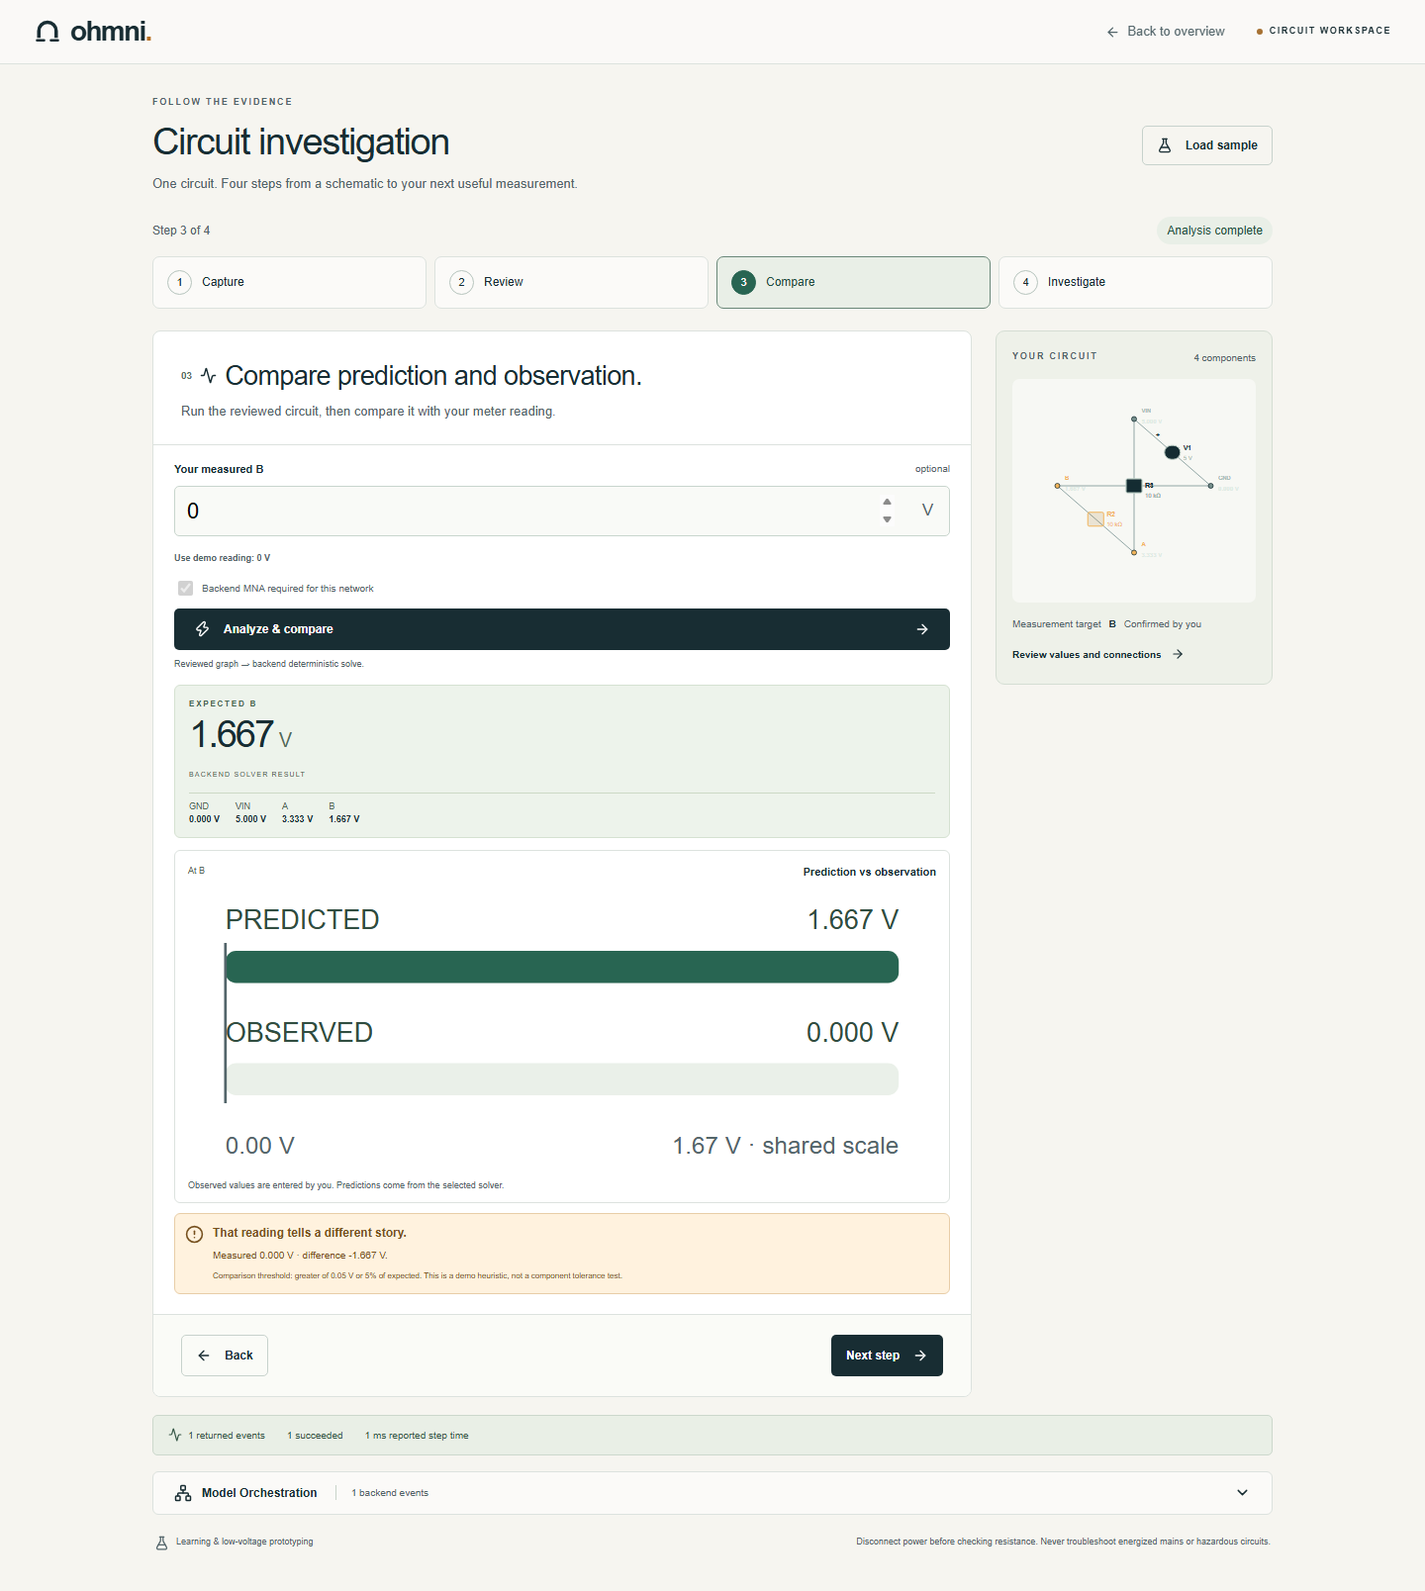
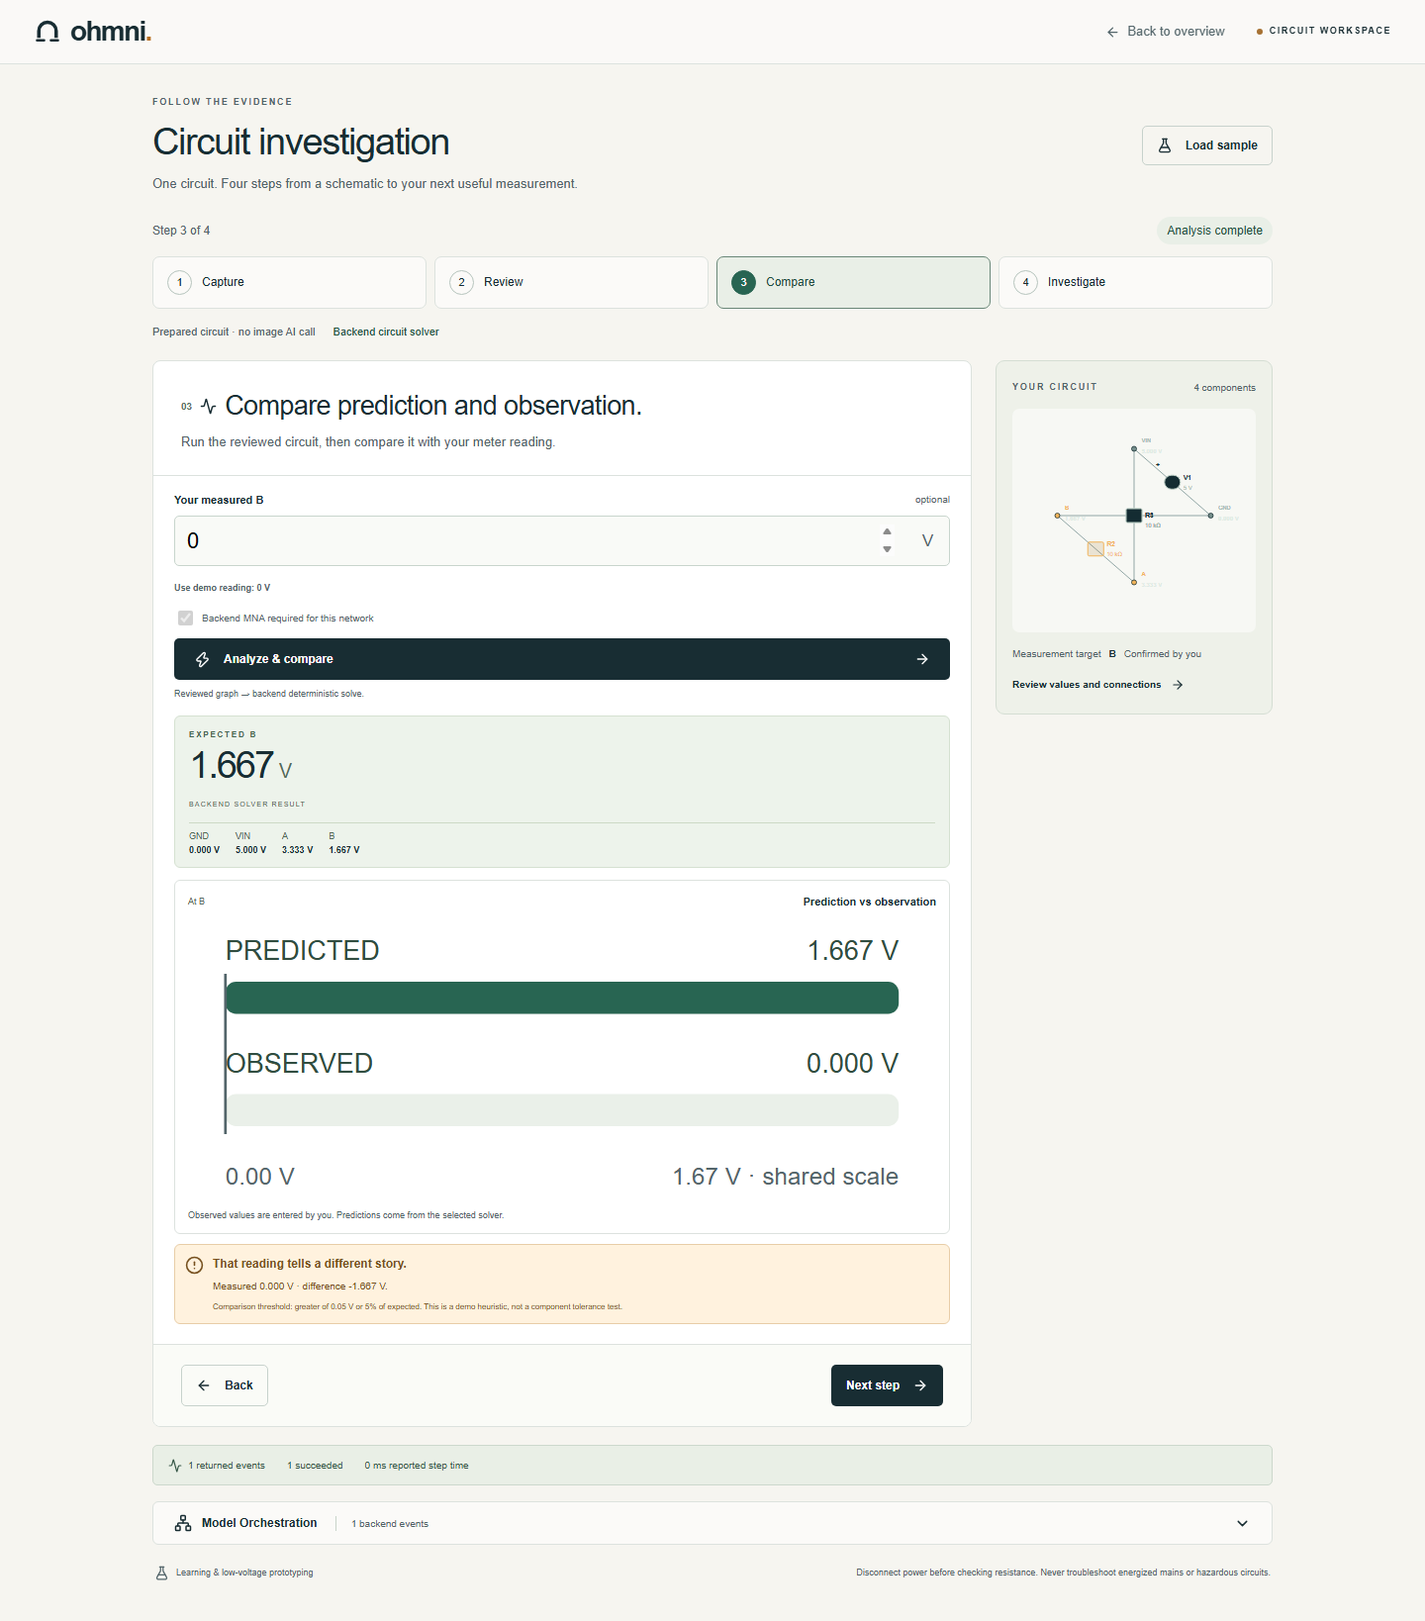
fix: keep guided readings and navigation accessible

diff --git a/src/components/ohmni/lab-workspace.tsx b/src/components/ohmni/lab-workspace.tsx
@@ -67,6 +67,7 @@ export function LabWorkspace() {
   const [confirmed, setConfirmed] = useState(false);
   const [phase, setPhase] = useState<Phase>("review");
   const [measurement, setMeasurement] = useState("");
+  const [investigateReading, setInvestigateReading] = useState("");
   const [result, setResult] = useState<Result | null>(null);
   const [resultSource, setResultSource] = useState<"local" | "backend">(
     "local",
@@ -82,6 +83,8 @@ export function LabWorkspace() {
   const [json, setJson] = useState("");
   const inputRef = useRef<HTMLInputElement>(null);
   const statusRef = useRef<HTMLDivElement>(null);
+  const investigationStatusRef = useRef<HTMLDivElement>(null);
+  const errorRef = useRef<HTMLDivElement>(null);
   const pending = phase !== "review";
   const measured = measurement.trim() ? Number(measurement) : undefined;
   const validMeasured = measured === undefined || Number.isFinite(measured);
@@ -108,6 +111,13 @@ export function LabWorkspace() {
     Math.abs(delta) > Math.max(0.05, Math.abs(expected!) * 0.05);
   const events = [...trace, ...(result?.trace ?? [])];
   const stageIndex = stages.indexOf(stage);
+  const sourceLabel = mode === "sample"
+    ? "Prepared circuit · no image AI call"
+    : mode === "manual"
+      ? "Manual circuit · no image AI call"
+      : imageUrl
+        ? "Uploaded schematic · review the returned extraction evidence"
+        : graph ? "Imported circuit graph · no image AI call" : null;
   const canEnter = {
     capture: true,
     review: !!graph,
@@ -127,6 +137,7 @@ export function LabWorkspace() {
             : imageUrl ? "Review needs attention" : null;
   function goTo(next: Stage) {
     if (pending || !canEnter[next]) return;
+    if (next === "investigate") setInvestigateReading(measurement);
     moveFocus.current = true;
     setStage(next);
   }
@@ -138,6 +149,9 @@ export function LabWorkspace() {
     stagesRef.current?.scrollIntoView({ block: "start", behavior: "instant" });
     moveFocus.current = false;
   }, [stage]);
+  useEffect(() => {
+    if (error) errorRef.current?.scrollIntoView({ block: "nearest", behavior: "instant" });
+  }, [error]);
   const allNodes = graph ? [...new Set(graph.components.flatMap((c) => [c.positiveNode, c.negativeNode]))] : [];
 
   useEffect(
@@ -159,6 +173,7 @@ export function LabWorkspace() {
     setConfirmed(false);
     setResult(null); setProbeTarget(undefined);
     setMeasurement("");
+    setInvestigateReading("");
     setError("");
     setExtraction(null);
     setRoute(null);
@@ -269,9 +284,9 @@ export function LabWorkspace() {
     link.click();
     setTimeout(() => URL.revokeObjectURL(url), 1000);
   }
-  async function solve() {
-    if (!confirmed || !graph || !reviewReady || !validMeasured) return;
-    setStage("compare");
+  async function solve(voltage = measured, destination: "compare" | "investigate" = "compare") {
+    if (!confirmed || !graph || !reviewReady || (voltage !== undefined && !Number.isFinite(voltage))) return;
+    setStage(destination);
     setPhase("solving");
     setError("");
     setResult(null); setProbeTarget(undefined);
@@ -281,10 +296,10 @@ export function LabWorkspace() {
             await request("/api/solve", {
               graph,
               userConfirmed: true,
-              ...(measured !== undefined ? { measuredVoltage: measured } : {}),
+              ...(voltage !== undefined ? { measuredVoltage: voltage } : {}),
             }),
           )
-        : solveSample(graph, measured);
+        : solveSample(graph, voltage);
       if (next.voltages[graph.measureNode] === undefined)
         throw new Error(
           "Solver response is missing the selected measurement node.",
@@ -295,7 +310,7 @@ export function LabWorkspace() {
       setError(e instanceof Error ? e.message : "Circuit analysis failed.");
     } finally {
       setPhase("review");
-      statusRef.current?.focus();
+      (destination === "investigate" ? investigationStatusRef : statusRef).current?.focus();
     }
   }
   function importGraph() {
@@ -353,7 +368,8 @@ export function LabWorkspace() {
             <span>{i + 1}</span><strong>{item[0].toUpperCase() + item.slice(1)}</strong>
           </button>)}
         </nav>
-        {error && <div className="error-card guided-error" role="alert"><CircleAlert size={18} /><div><strong>The investigation needs attention</strong><p>{error}</p><span>Your image and circuit edits remain available. Return to Capture to try another image or a manual graph.</span></div></div>}
+        {sourceLabel && <p className="investigation-context"><span>{sourceLabel}</span>{result && <span>{resultSource === "local" ? "Local divider calculation" : "Backend circuit solver"}</span>}</p>}
+        {error && <div className="error-card guided-error" role="alert" ref={errorRef}><CircleAlert size={18} /><div><strong>The investigation needs attention</strong><p>{error}</p><span>{stage === "capture" ? "Your source remains available. Try another image or a manual graph." : "Your circuit edits remain available. Retry this step or review its connections."}</span></div></div>}
         <div className="guided-layout">
         <div className="workspace-grid guided-frames" ref={frameRef}>
           <section
@@ -888,8 +904,21 @@ export function LabWorkspace() {
           <section className="workspace-panel investigate-panel guided-frame" hidden={stage !== "investigate"} aria-labelledby="investigate-title">
             <PanelHeader number="04" icon={<FlaskConical size={17} />} title="Choose your next measurement." id="investigate-title" subtitle="Use the evidence to narrow the possibilities. A hypothesis is a starting point, not a confirmed fault." />
             <div className="investigate-content">
+              <form className="investigation-reading" onSubmit={(e) => {
+                e.preventDefault();
+                if (!investigateReading.trim() || !Number.isFinite(Number(investigateReading)) || pending) return;
+                setMeasurement(investigateReading);
+                void solve(Number(investigateReading), "investigate");
+              }}>
+                <label htmlFor="investigate-reading">{measured === undefined ? "Add" : "Update"} your measured {graph?.measureNode} (V)</label>
+                <p>Compare this reading to update the investigation.</p>
+                <div>
+                  <input id="investigate-reading" type="number" step="any" value={investigateReading} disabled={pending} onChange={(e) => setInvestigateReading(e.target.value)} placeholder="Enter your meter reading" />
+                  <button className="button primary small" disabled={pending || !investigateReading.trim() || !Number.isFinite(Number(investigateReading))}>{pending ? <LoaderCircle size={15} className="spinner" /> : <Activity size={15} />} Compare reading</button>
+                </div>
+              </form>
+              <div ref={investigationStatusRef} tabIndex={-1} role="status" className="investigation-reading-status">{pending ? "Comparing your reading…" : result ? measured !== undefined ? `Comparison updated: ${measured} V observed, ${expected?.toFixed(3)} V expected.` : "Circuit calculated. Add a meter reading here to investigate a discrepancy." : error ? "Comparison could not complete. Your reading is preserved; retry when ready." : ""}</div>
               {result && <>
-                {measured === undefined && <div className="investigation-notice"><strong>Add a reading to investigate a discrepancy.</strong><p>Your circuit has been calculated. Return to Compare to enter your meter reading.</p></div>}
                 {delta !== undefined && !mismatch && <div className="investigation-notice"><strong>Your reading agrees with the prediction.</strong><p>This observation shows no discrepancy within the displayed comparison threshold. It does not prove that every part is correct.</p></div>}
                   {(result.hypotheses ?? []).slice(0, 1).map((h, i) => (
                     <HypothesisCard key={i} hypothesis={h} />

diff --git a/src/app/globals.css b/src/app/globals.css
@@ -2270,6 +2270,15 @@ input[type="checkbox"] {
 .home-page .site-header .brand svg { width: 24px; height: 28px; }
 .home-page .site-header nav { gap: 24px; }
 .home-page .nav-cta { padding: 9px 14px; gap: 9px; background: #ffffff70; }
+.nav-more { position: relative; }
+.nav-more summary { display: flex; align-items: center; gap: 5px; padding: 9px 0; cursor: pointer; list-style: none; }
+.nav-more summary::-webkit-details-marker { display: none; }
+.nav-more summary::marker { content: ""; }
+.nav-more summary:focus-visible { outline: 2px solid #286552; outline-offset: 4px; border-radius: 3px; }
+.nav-more-links { position: absolute; top: calc(100% + 8px); right: 0; z-index: 45; display: grid; width: 190px; padding: 6px; background: #fffef9; border: 1px solid var(--ohmni-border); border-radius: 7px; box-shadow: 0 8px 24px #173b3518; }
+.nav-more-links a { display: flex; align-items: center; justify-content: space-between; gap: 12px; min-height: 42px; padding: 9px 10px; font-size: 12px; border-radius: 4px; }
+.nav-more-links a:hover, .nav-more-links a:focus-visible { background: #edf2e9; }
+.nav-more-links svg { flex-shrink: 0; }
 .use-cases-section { max-width: 1440px; margin: 0 auto; padding: 55px 54px 65px; }
 .use-cases-grid { display: grid; grid-template-columns: repeat(4,minmax(0,1fr)); gap: 16px; }
 .use-case-card { display: flex; flex-direction: column; align-items: start; gap: 17px; min-width: 0; padding: 25px 22px; background: #fdfdf9; border: 1px solid var(--ohmni-border); border-radius: 8px; }
@@ -2305,6 +2314,15 @@ input[type="checkbox"] {
 .stage-actions > span { font-size: 11px; color: var(--ohmni-muted); max-width: 330px; }
 .stage-actions .button { min-height: 42px; }
 .guided-error { margin: 0 0 20px; }
+.investigation-context { display: flex; flex-wrap: wrap; gap: 6px 18px; margin: -8px 0 20px !important; font-size: 11px; line-height: 1.7; color: var(--ohmni-muted); }
+.investigation-context span + span { color: #24523f; }
+.investigation-reading { padding: 16px; margin-bottom: 12px; border: 1px solid #c7d7c8; border-radius: 8px; background: #f2f6ef; }
+.investigation-reading label { font-size: 13px; font-weight: 600; }
+.investigation-reading p { font-size: 12px; line-height: 1.7; color: var(--ohmni-muted); margin: 7px 0 12px !important; }
+.investigation-reading > div { display: flex; flex-wrap: wrap; gap: 9px; }
+.investigation-reading input { flex: 1; min-width: 0; width: 100%; padding: 10px; font-size: 13px; border: 1px solid #a9bdaf; background: #fff; border-radius: 5px; }
+.investigation-reading .button { min-height: 42px; }
+.investigation-reading-status { margin-bottom: 18px; font-size: 12px; color: var(--ohmni-muted); line-height: 1.7; }
 .circuit-preview { position: sticky; top: 102px; min-width: 0; padding: 19px 16px; background: #eef1e9; border: 1px solid #d4ddd3; border-radius: 9px; }
 .preview-heading { display: flex; flex-wrap: wrap; gap: 5px; justify-content: space-between; align-items: center; font-size: 10px; color: var(--ohmni-muted); }
 .preview-heading .eyebrow { font-size: 9px; }
@@ -2339,7 +2357,7 @@ input[type="checkbox"] {
 @media(max-width:600px) {
   #how-it-works, #use-cases, #examples, #roadmap { scroll-margin-top: 115px; }
   .home-page .site-header { flex-wrap: wrap; padding: 13px 22px; gap: 13px; }
-  .home-page .site-header nav { width: 100%; gap: 12px; justify-content: space-between; font-size: 11px; }
+  .home-page .site-header nav { width: 100%; gap: 8px; justify-content: space-between; font-size: 11px; }
   .home-page .site-header nav > a[href="#how-it-works"], .home-page .site-header nav > a[href="#use-cases"] { display: inline-flex; }
   .home-page .nav-cta { padding: 7px 10px; }
   .use-cases-section { padding: 35px 22px 45px; }
@@ -2353,6 +2371,7 @@ input[type="checkbox"] {
   .stage-actions > span { width: 100%; }
   .stage-actions .button { font-size: 11px; padding: 10px 13px; }
   .investigate-content { padding: 18px; }
+  .investigation-reading .button { width: 100%; }
   .review-source { margin: 18px 18px 0; }
   .lab-title { flex-wrap: wrap; }
 }

diff --git a/src/app/page.tsx b/src/app/page.tsx
@@ -12,6 +12,7 @@ import { HeroCircuit } from "../components/ohmni/hero-circuit";
 import { LaunchShowcase } from "../components/ohmni/launch-showcase";
 import { ScrollExperience } from "../components/ohmni/scroll-experience";
 import { UseCases } from "../components/ohmni/use-cases";
+import { SiteNavigation } from "../components/ohmni/site-navigation";
 
 export const metadata: Metadata = {
   title: "Ohmni | Understand your circuit",
@@ -25,13 +26,7 @@ export default function Home() {
       <ScrollExperience />
       <header className="site-header">
         <Brand />
-        <nav aria-label="Main navigation">
-          <a href="#use-cases">Use cases</a>
-          <a href="#how-it-works">How it works</a>
-          <Link href="/lab" className="nav-cta">
-            Open lab <ArrowUpRight size={15} />
-          </Link>
-        </nav>
+        <SiteNavigation />
       </header>
       <main>
         <section className="hero">

diff --git a/src/components/ohmni/site-navigation.tsx b/src/components/ohmni/site-navigation.tsx
@@ -1,0 +1,19 @@
+import Link from "next/link";
+import { ArrowUpRight, ChevronDown } from "lucide-react";
+
+export function SiteNavigation() {
+  return (
+    <nav aria-label="Main navigation">
+      <a href="#use-cases">Use cases</a>
+      <a href="#how-it-works">How it works</a>
+      <details className="nav-more">
+        <summary>More <ChevronDown size={13} aria-hidden="true" /></summary>
+        <div className="nav-more-links">
+          <Link href="/probe">Probe Guide <ArrowUpRight size={13} aria-hidden="true" /></Link>
+          <Link href="/for-the-larp">Under the Hood <ArrowUpRight size={13} aria-hidden="true" /></Link>
+        </div>
+      </details>
+      <Link className="nav-cta" href="/lab">Open lab <ArrowUpRight size={14} aria-hidden="true" /></Link>
+    </nav>
+  );
+}

diff --git a/docs/ui-review/GUIDED_INVESTIGATION.md b/docs/ui-review/GUIDED_INVESTIGATION.md
@@ -1,6 +1,6 @@
 # Guided circuit investigation
 
-Base: `947eb0617eba526d8ebef53ac1d8aa0fe59e8c75` (main, including Claude's tutor rounding fix).
+Follow-up base: `bd6c3ccbfd66a30462d8a1ee95358d4c638494f3` (main after Claude merged PR #49 and closed duplicate PR #48). The published redesign passed Linux CI including the production build. These additional review fixes require a separate PR and fresh CI run after publication.
 
 The homepage now has a compact sticky header, no reading-progress line, and an audience section between How it works and the roadmap. Current limited DC uses and future lab/technician applications are explicitly distinguished.
 
@@ -12,19 +12,26 @@ The lab presents Capture → Review → Compare → Investigate in one prominent
 - Back navigation preserves the circuit, result and probe history. Changing values, terminals, measurement target or confirmation clears results and probe state. Changing the graph also clears ambiguity acknowledgements. Replacing the source resets the investigation.
 - Stage transitions focus the heading and scroll the stage navigation into view. Hidden frames retain inputs but are excluded from display, keyboard navigation and the accessibility tree.
 - The existing extraction, routing, solver and probe endpoints and canonical contracts are unchanged. Source images can be inspected during Review. Manual graph recovery, optional readings, backend/local-divider selection, probe undo, evidence export and returned execution traces remain available.
+- Investigate accepts a new or updated meter reading directly. Submitting it uses the existing solve endpoint and stays in Investigate, with confirmation still required. Failed comparisons retain the draft for retry. A successful new comparison replaces prior probe history.
+- A passive source label distinguishes prepared/manual/imported graphs from uploaded schematics. Returned calculations retain an always-visible backend/local source label. Errors scroll into view and offer recovery wording appropriate to the active stage.
+- The compact homepage header keeps Use cases, How it works and Open lab visible. A native More disclosure groups the shipped Probe Guide and Under the Hood pages, with a single primary navigation row at 320 and 390 px.
 - No advanced dashboard mode is included in this submission change.
 
 ## Validation
 
-Local component browser QA: **111 assertions passed**, at 320, 390, 768 and 1440 px, with zero browser runtime errors. Actual unchanged `/api/solve` and `/api/probe` route handlers ran through a temporary Vite middleware; Next link/search-parameter adapters and the handwritten stylesheet were used. This is component/integration evidence, not a successful Next production build.
+Local component browser QA: **138 assertions passed**, at 320, 390, 768 and 1440 px, with zero browser runtime errors. Actual unchanged `/api/solve` and `/api/probe` route handlers ran through a temporary Vite middleware; Next link/search-parameter adapters and the handwritten stylesheet were used. This is component/integration evidence, not a successful Next production build.
 
 Verified numerical results: divider 2.500 V; edited divider 0.455 V; ladder B 1.667 V; edited ladder B 2.381 V; series/parallel network MID 6.545 V. The actual probe endpoint chose A after B = 0 V, narrowed to R2 open after A = 5 V, and recalculated after undo.
 
-The browser checks also cover sticky positioning after scrolling; all three homepage navigation links; audience order and status labels; four-stage gates; keyboard focus; one visible frame; back/forward probe preservation; edit invalidation; no-reading and matching-reading notices; downloaded evidence; source review; manual recovery; and horizontal overflow across all four stages.
+The browser checks also cover sticky positioning after scrolling; all three homepage navigation links; audience order and status labels; four-stage gates; keyboard focus; one visible frame; back/forward probe preservation; edit invalidation; direct entry without a prior reading and matching-reading notices; downloaded evidence; source review; manual recovery; and horizontal overflow across all four stages.
+
+Review-fix coverage adds direct entry and updates of readings in Investigate, the exact submitted measurement in the real solver request, retry after a simulated failure, clearing stale probe state after a matching reading, always-visible backend/local provenance, and resetting from a completed investigation. The current main integration changes additional routes and their tests; it does not change the lab, homepage or numerical handlers used in the component browser checks.
+
+Navigation coverage verifies both secondary destinations, bounds of the expanded disclosure, and the primary row height at every tested width. Page implementations are the already merged routes from PRs #47 and #50.
 
 Extraction uncertainty and provider-unavailable cases, plus HTTP 429/413/503 failures, are **explicit browser fixtures**. They verify recovery and confirmation behavior without consuming live model calls. No new live provider success or extraction quality claim is made.
 
-Local UI ESLint (including the smoke script) and TypeScript checks pass; **139 unit tests pass across 15 files** on this updated base. The Windows production build is blocked before application compilation by native SWC's access-denied error while canonicalizing the workspace to load `next.config.ts`. The normal Linux CI must pass lint, generated types, unit tests and the full production build before merge. A deployed preview should also be checked before release.
+Local UI ESLint (including the smoke script) and TypeScript checks pass; **147 unit tests pass across 17 files** on this updated base. The Windows production build is blocked before application compilation by native SWC's access-denied error while canonicalizing the workspace to load `next.config.ts`. The normal Linux CI must pass lint, generated types, unit tests and the full production build before merge. A deployed preview should also be checked before release.
 
 ## Reproduce browser checks on Next
 
@@ -46,3 +53,4 @@ On PowerShell, set `$env:BASE_URL` before running the script. Optional `GUIDED_P
 ![Compare](guided/compare-desktop.png)
 ![Investigate](guided/investigate-desktop.png)
 ![Mobile investigation](guided/investigate-mobile.png)
+![Compact mobile navigation](guided/navigation-mobile.png)
